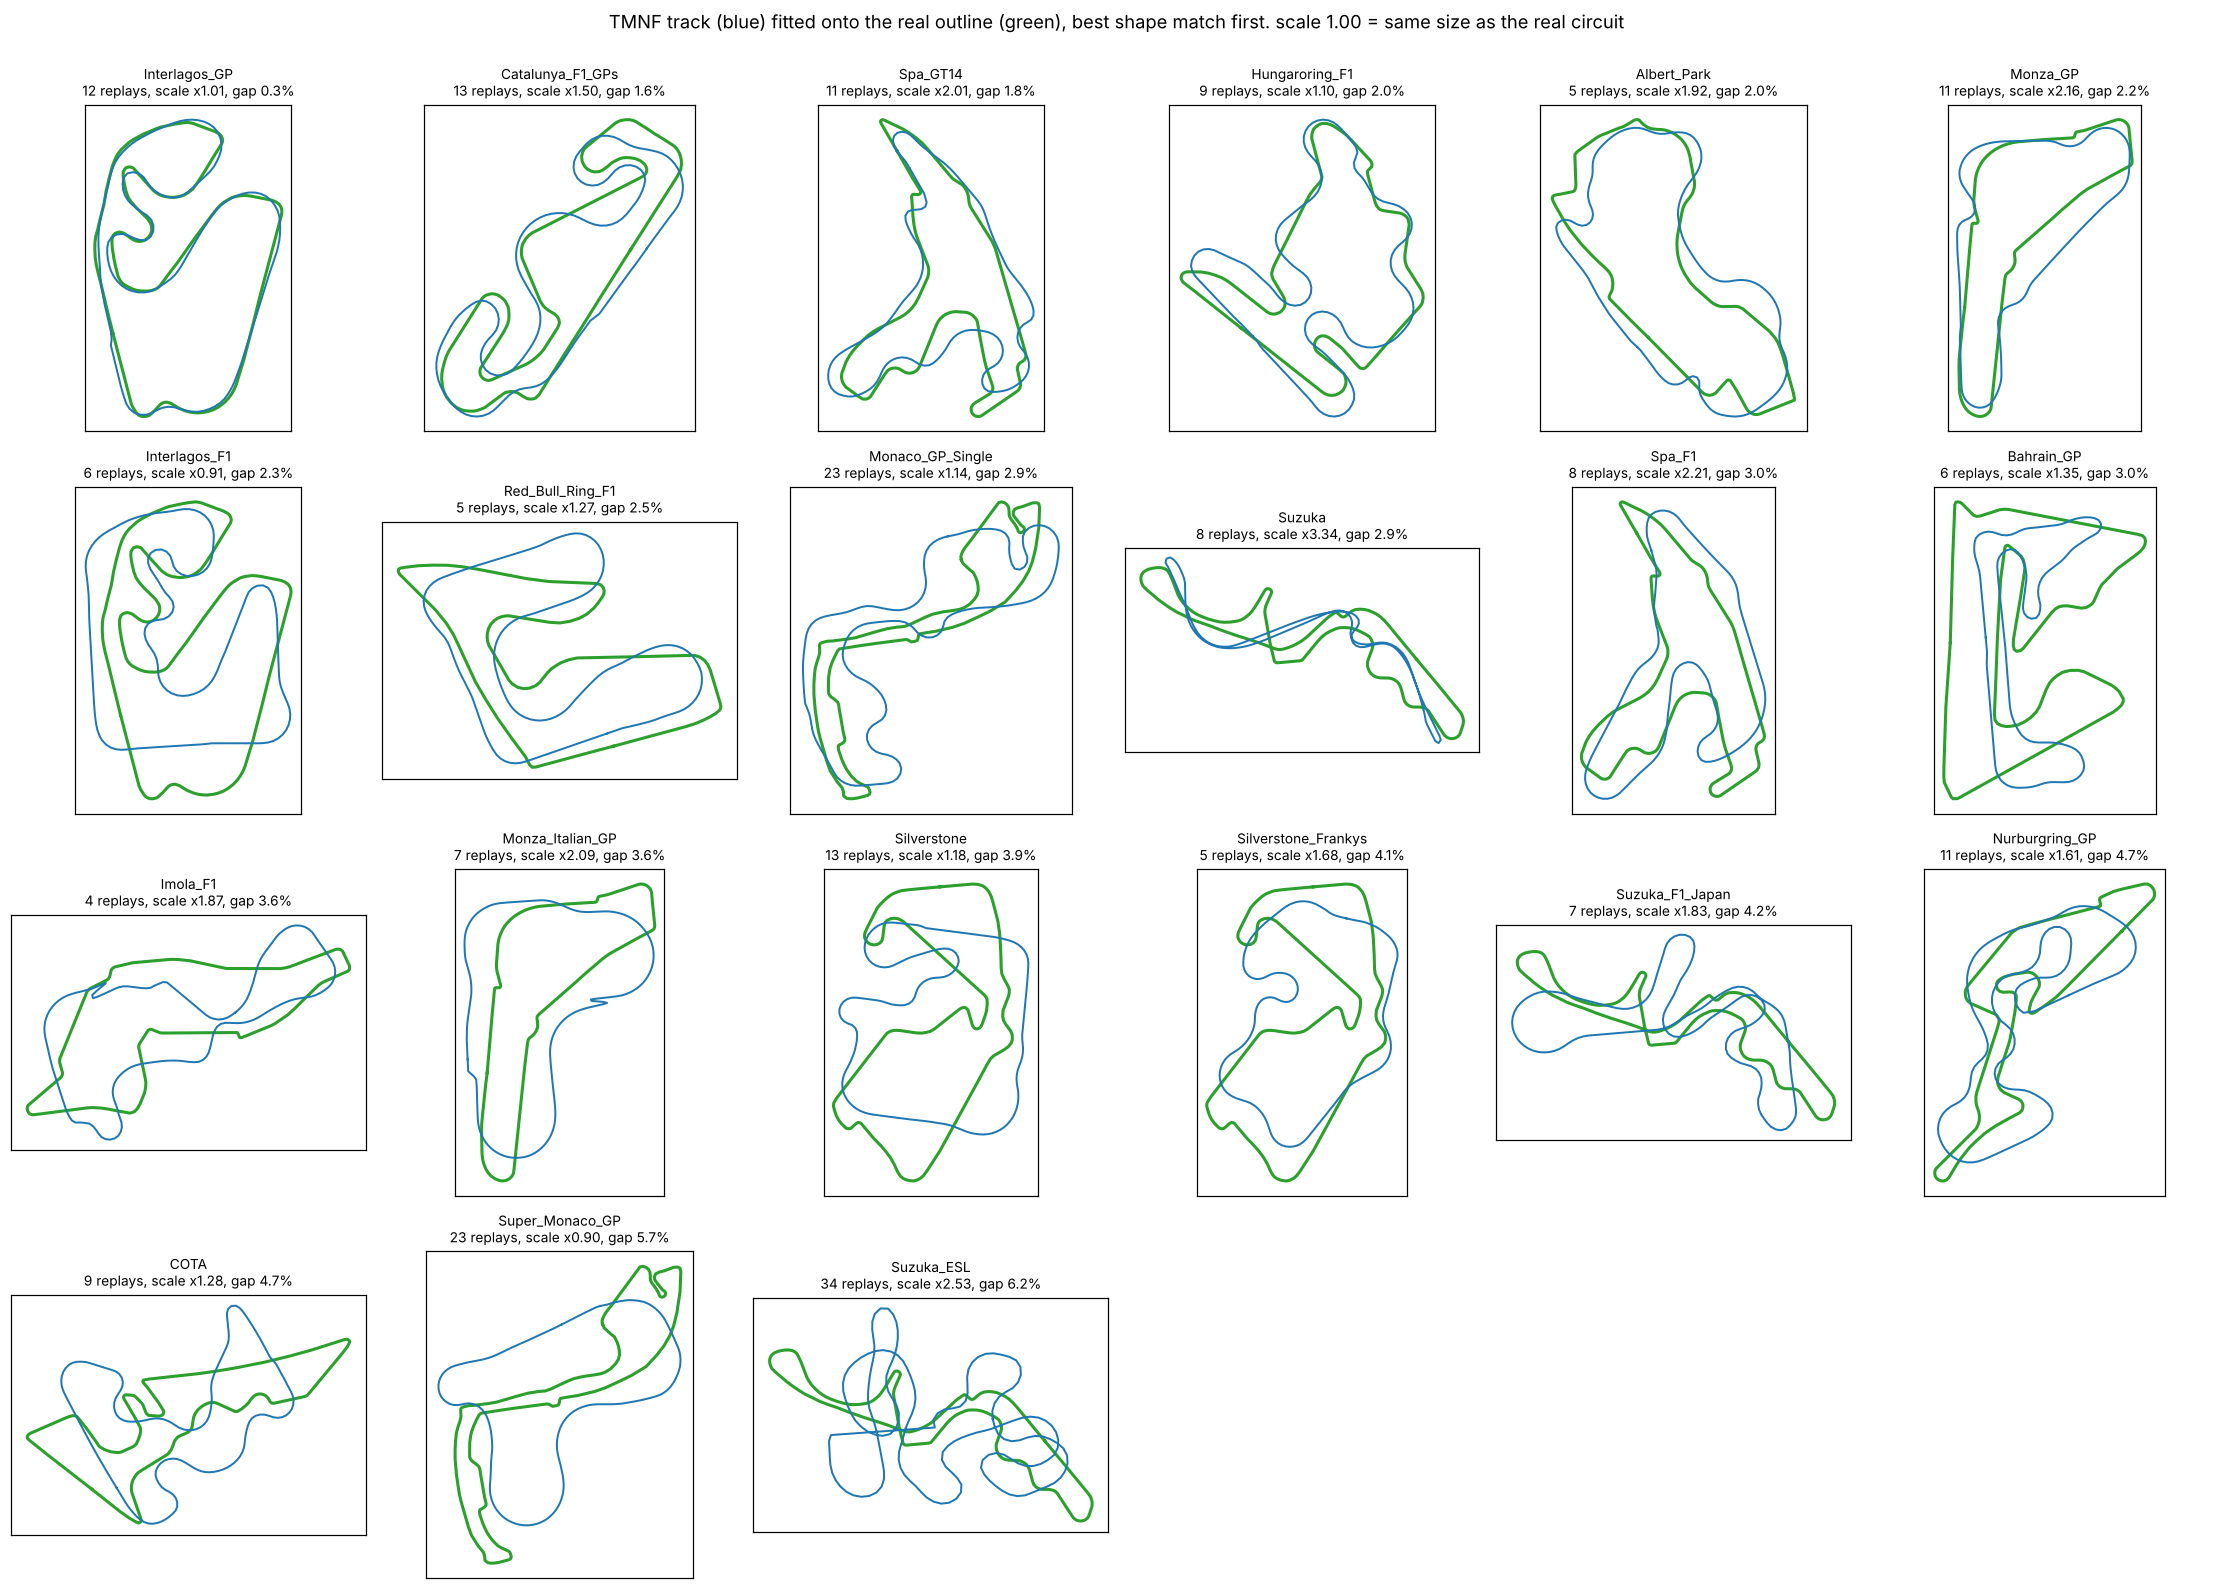
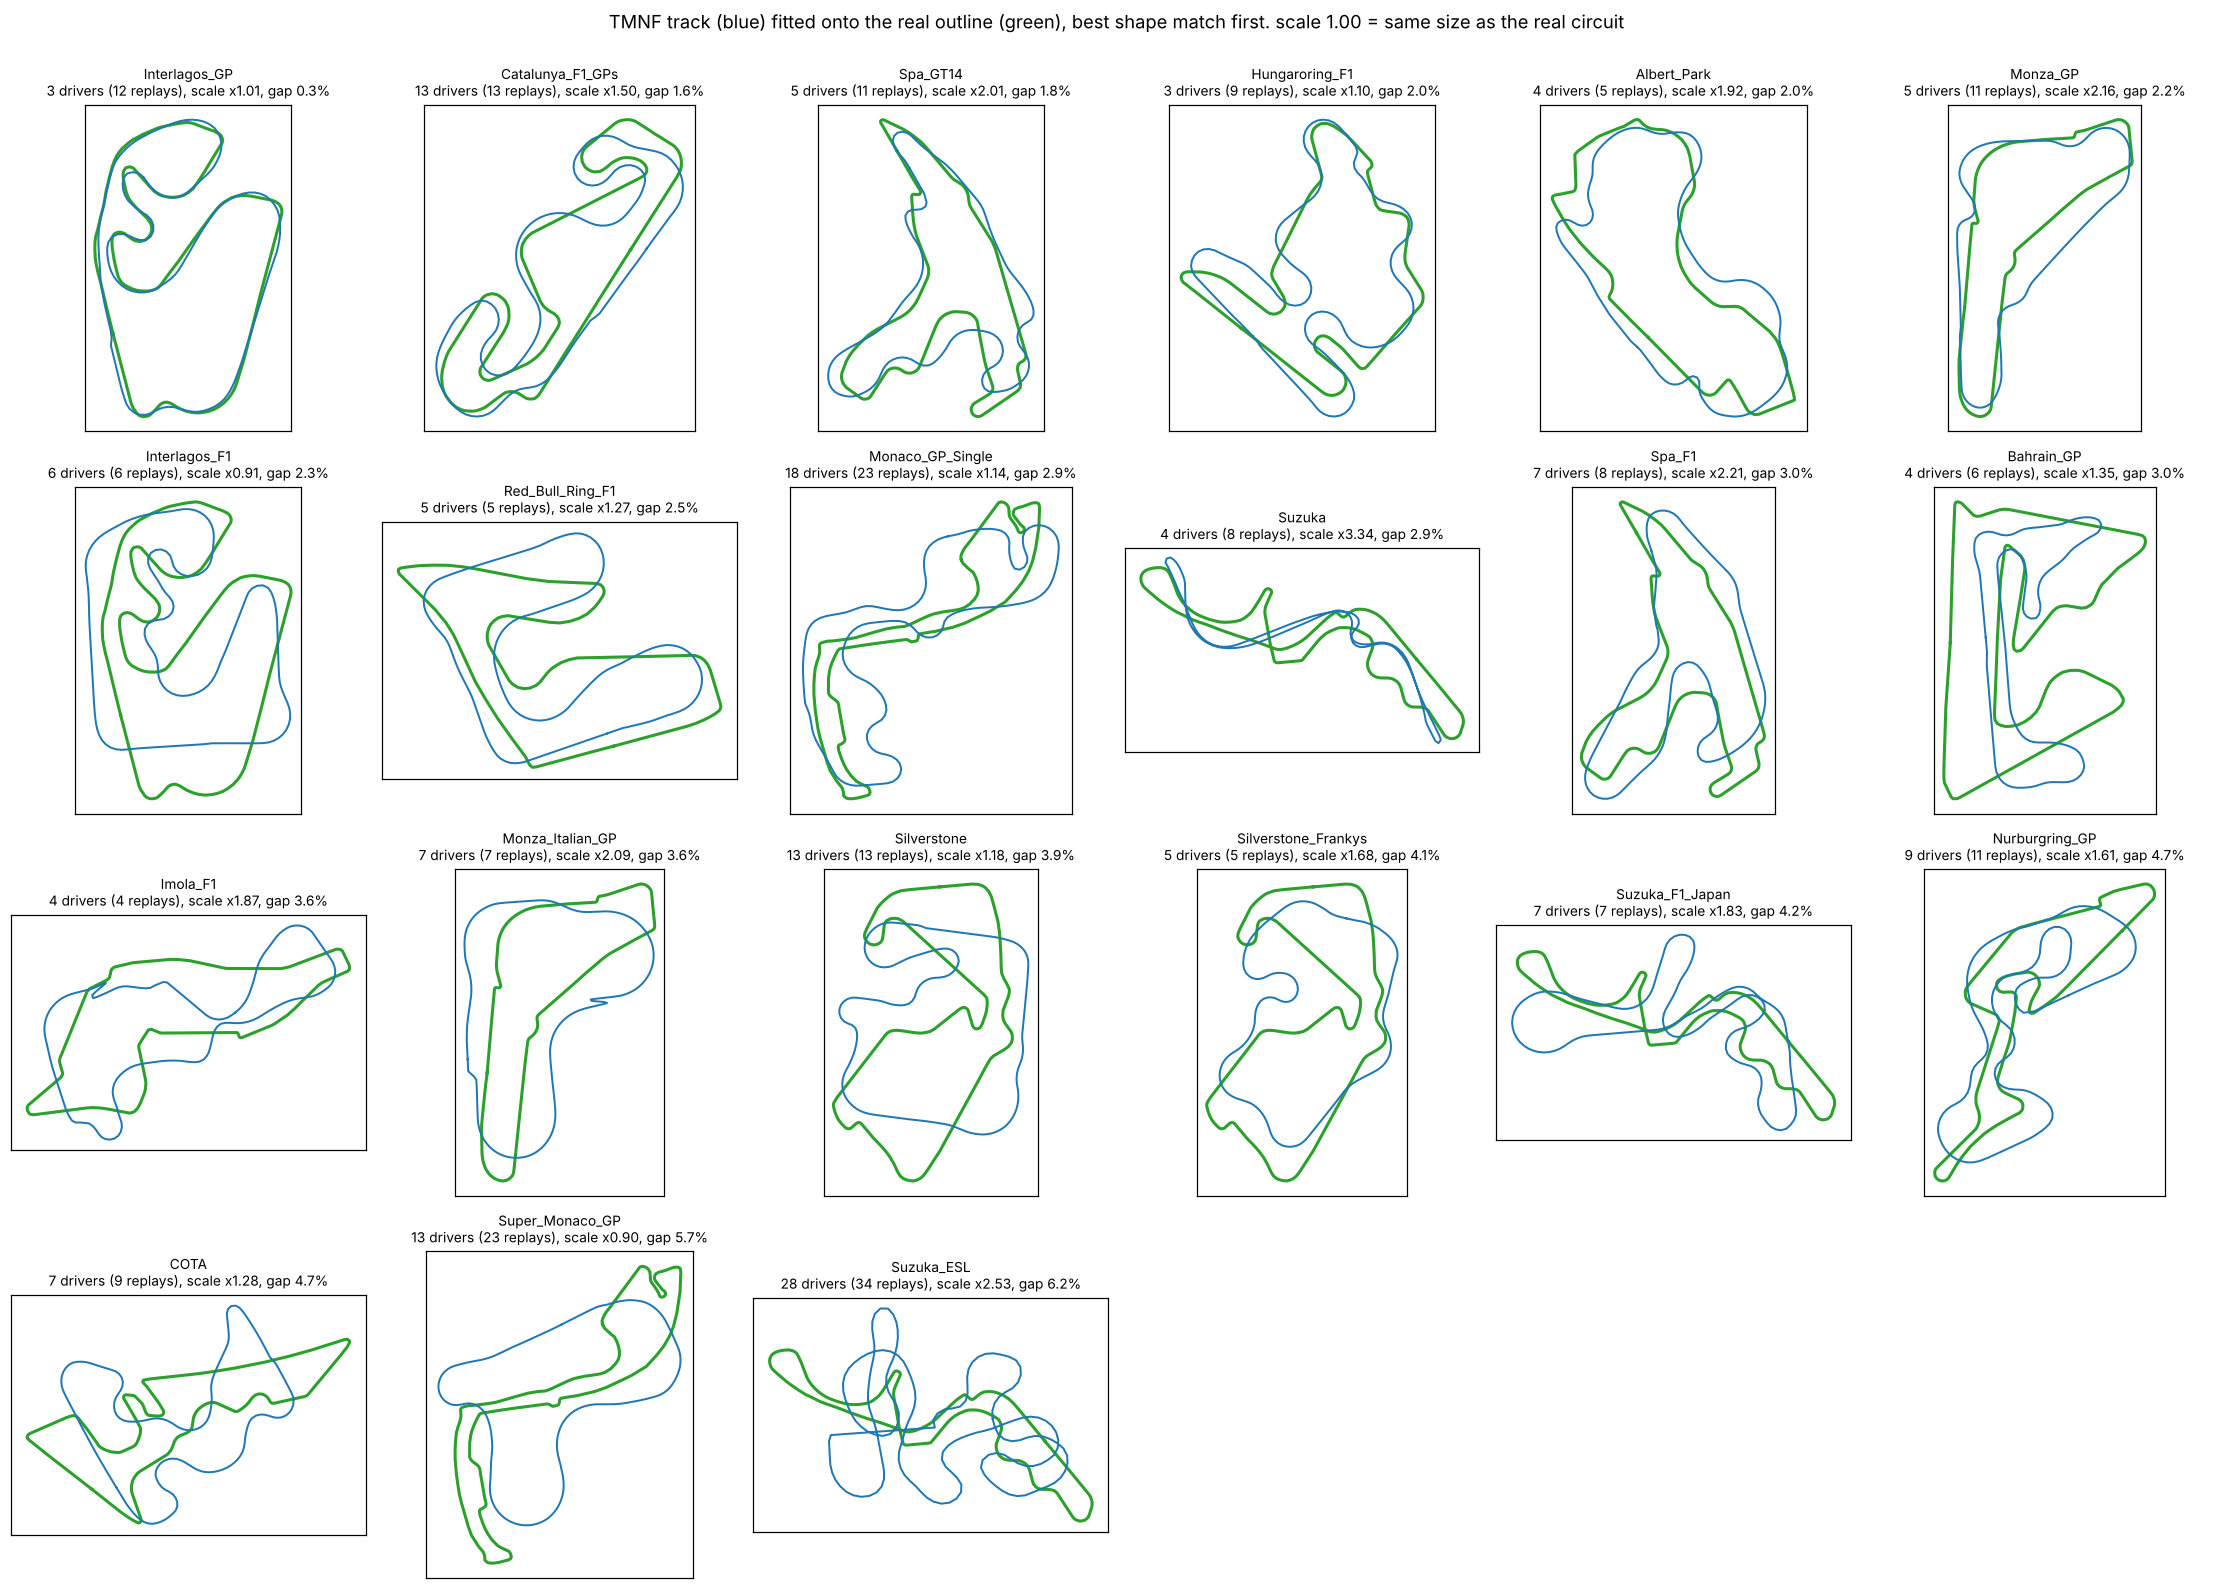
Count drivers, not replays, for the TMNF real-circuit candidates
InterlagosGP has 12 replays but only 3 drivers (10 are one driver's improving laps).

Claude-Session: https://claude.ai/code/session_01WsyqPERiKa97b3MzVXkdxj

diff --git a/tracks/README.md b/tracks/README.md
@@ -10,7 +10,7 @@
 Result: no TMNF track has both many replays and a real-circuit layout. The most replayed track (ESL-Hockolicious, 635 replays) is
 fictional. The most replayed real-circuit recreation is ESL - Suzuka with 34 replays (path 0.62 of the real lap, so it is scaled down),
 then Monaco GP Single (23, ratio 0.93), WCG09-Laguna-1 (20, ratio 1.23), Nürburgring-like track (16), Barcelona (15), Silverstone (13),
-InterlagosGP (12, ratio 0.99). Everything else has 11 replays or fewer.
+InterlagosGP (12, ratio 0.99). Everything else has 11 replays or fewer. These are replay counts; see the corrected driver counts below.
 
 ## Which TMNF track matches a real circuit? (`compare/`)
 
@@ -19,11 +19,15 @@ InterlagosGP (12, ratio 0.99). Everything else has 11 replays or fewer.
 and numbers the corners on both in lap order. `compare/overview.png` shows all 21 candidates, `compare/results.csv` has the numbers and
 `compare/<name>_<id>.png` the three-panel figure for each (TMNF layout, real outline, overlay).
 
-| rank | TMNF track | replays | size vs real | shape gap | corners found (TMNF / real) | in Assetto Corsa (from memory) |
+| rank by shape | TMNF track | drivers (replays) | size vs real | shape gap | corners found (TMNF / real) | in Assetto Corsa (from memory) |
 |--:|---|--:|--:|--:|--:|---|
-| 1 | InterlagosGP [Unlimiter 2.0] (12851169) | 12 | 1.01 (same size) | 0.35 % (15 m) | 11 / 14 | mod only |
-| 2 | F1 GPs: Catalunya (1482521) | 13 | 1.50 (two thirds of real) | 1.6 % (72 m) | 14 / 13 | Barcelona is DLC |
-| 3 | Monza GP (5169102) | 11 | 2.16 (less than half size) | 2.2 % (126 m) | 10 / 10 | official |
+| 1 | InterlagosGP [Unlimiter 2.0] (12851169) | **3** (12) | 1.01 (same size) | 0.35 % (15 m) | 11 / 14 | mod only |
+| 2 | F1 GPs: Catalunya (1482521) | 13 (13) | 1.50 (two thirds of real) | 1.6 % (72 m) | 14 / 13 | Barcelona is DLC |
+| 3 | Monza GP (5169102) | 5 (11) | 2.16 (less than half size) | 2.2 % (126 m) | 10 / 10 | official |
+
+**Replays are not drivers.** TMX keeps every improving personal best of a driver, so InterlagosGP's 12 replays are 10 successive laps of one driver
+(KRONGTEKK_, 53.16 s down to 49.61 s on one day) and 2 other drivers. The site's replay page shows only the 3 current records. The driver counts
+above are the ones to use. By drivers, Monaco GP Single has 18 (1.14x, 2.9 % gap) and Catalunya 13.
 
 Next best: GT14_Spa_Francorchamps (11 replays, 2.0x, 1.8 %, official AC), F1 Hungaroring (9 replays, 1.10x, 2.0 %, but the layout is visibly
 stretched), Monaco GP Single (23 replays, 1.14x, 2.9 %, loose shape).
